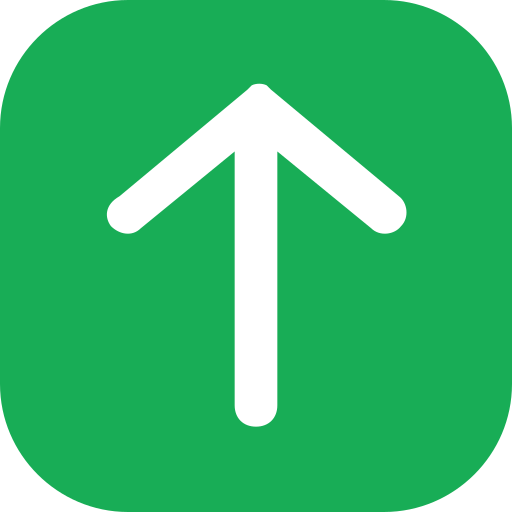
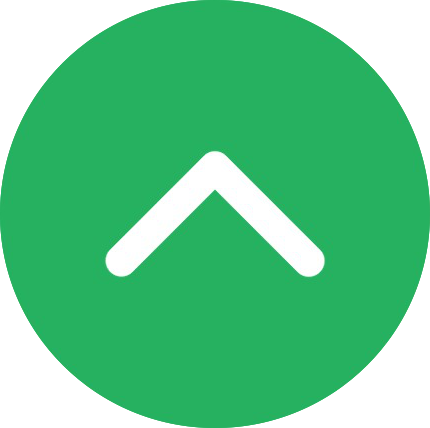
changes

diff --git a/src/screens/Auth/MainScreen.jsx b/src/screens/Auth/MainScreen.jsx
@@ -27,9 +27,12 @@ import {
 import 'react-native-get-random-values';
 import {v4 as uuid} from 'uuid';
 import jwt_decode from 'jwt-decode';
+import {ActivityIndicator} from 'react-native';
 
 const MainScreen = () => {
   const [errorMessage, setErrorMessage] = useState(null);
+  const [indicatorLoading, setIndicatorLoading] = useState(false);
+  const [serviceIsRunning, setServiceIsRunning] = useState(false);
 
   const navigation = useNavigation();
 
@@ -223,6 +226,8 @@ const MainScreen = () => {
 
   const signInWithoutCredentials = async () => {
     try {
+      setIndicatorLoading(true);
+      setServiceIsRunning(true);
       const response = await Axios.post('auth/guestLogin');
 
       const {token} = response.data.data;
@@ -238,7 +243,8 @@ const MainScreen = () => {
       for (const item of topics.data.data) {
         await Axios.patch(`/users/profile/topic/${item.id}`, {}, config);
       }
-
+      setIndicatorLoading(false);
+      setServiceIsRunning(false);
       navigation.replace('AuthHome', {
         screen: 'HomeTab',
         params: {screen: 'Home'},
@@ -247,6 +253,8 @@ const MainScreen = () => {
       console.log('====================================');
       console.log(error);
       console.log('====================================');
+      setIndicatorLoading(false);
+      setServiceIsRunning(false);
     }
   };
 
@@ -254,6 +262,7 @@ const MainScreen = () => {
     <View
       style={[
         styles.bottomContainer,
+
         {
           backgroundColor: darkMode
             ? global.backgroundColorDark
@@ -289,6 +298,11 @@ const MainScreen = () => {
           ]}
         />
       </View>
+
+      {indicatorLoading && (
+        <ActivityIndicator size="large" color={darkMode ? 'white' : 'black'} />
+      )}
+
       <View
         style={[
           styles.bottom,
@@ -342,6 +356,7 @@ const MainScreen = () => {
           </TouchableOpacity>
 
           <TouchableOpacity
+            disabled={serviceIsRunning}
             style={[styles.button, {height: 50}]}
             onPress={() => signInWithoutCredentials()}>
             <Image
@@ -363,6 +378,12 @@ export default MainScreen;
 const styles = StyleSheet.create({
   midText: {
     // marginRight: '30%',
+  },
+  indicatorStyle: {
+    color: global.brandColor,
+  },
+  spinnerTextStyle: {
+    color: '#FFF',
   },
   signupIcon: {
     width: 25,

diff --git a/App.jsx b/App.jsx
@@ -118,12 +118,33 @@ export default function App() {
     }
   };
 
+  function compareVersions(version1, version2) {
+    const v1Components = version1.split('.').map(Number);
+    const v2Components = version2.split('.').map(Number);
+
+    const maxLength = Math.max(v1Components.length, v2Components.length);
+
+    for (let i = 0; i < maxLength; i++) {
+      const v1Component = i < v1Components.length ? v1Components[i] : 0;
+      const v2Component = i < v2Components.length ? v2Components[i] : 0;
+
+      if (v1Component > v2Component) {
+        return 1; // version1 is greater
+      } else if (v1Component < v2Component) {
+        return -1; // version2 is greater
+      }
+    }
+
+    return 0; // versions are equal
+  }
+
   return (
     <>
       {updatedVersion &&
-      DeviceInfo.getVersion() !== updatedVersion &&
-      DeviceInfo.getVersion() < updatedVersion
-        ? Alert.alert('', `New version ${updatedVersion} available!`, [
+      // DeviceInfo.getVersion() !== updatedVersion &&
+      // DeviceInfo.getVersion() < updatedVersion
+      compareVersions(updatedVersion, DeviceInfo.getVersion()) === 1
+        ? Alert.alert('', `New version available!`, [
             {
               text: 'Update Now',
               onPress: () => openGoogleORAppStore(),

diff --git a/ios/NavBar.jsx b/ios/NavBar.jsx
@@ -1,0 +1,35 @@
+import Image from "next/image";
+import Link from "next/link";
+import React from "react";
+
+function NavBar() {
+  return (
+    <nav className="tw-flex tw-px-20 tw-flex-row tw-bg-white tw-justify-between tw-pt-5 tw-sticky tw-top-0 tw-z-50 tw-pb-5">
+      <Link href="/home">
+        <Image
+          className="tw-object-contain tw-cursor-pointer "
+          src={"/logo.png"}
+          width={230}
+          height={230}
+          alt="logo.png"
+        />
+      </Link>
+
+      <ul className="tw-flex tw-flex-row tw-text-lg tw-font-medium tw-items-center ">
+        <li className="tw-mx-7 tw-cursor-pointer ">
+          <Link className=" tw-no-underline tw-text-black" href="/about">
+            About us
+          </Link>
+        </li>
+        <li className="tw-mx-7 tw-cursor-pointer">Sign Up</li>
+        <li className="tw-mx-7 tw-bg-primary hover:tw-bg-buttonHover tw-text-white tw-font-normal tw-cursor-pointer tw-px-10 tw-py-3 tw-rounded-lg">
+          <Link className=" tw-no-underline tw-text-white" href="/login">
+            Sign In
+          </Link>
+        </li>
+      </ul>
+    </nav>
+  );
+}
+
+export default NavBar;

diff --git a/src/screens/ProfileSettings.jsx b/src/screens/ProfileSettings.jsx
@@ -377,8 +377,8 @@ const ProfileSettings = props => {
                 <TouchableOpacity
                   onPress={() =>
                     Alert.alert(
-                      'Deactivate Account',
-                      'Are you sure you want to deactivate your account? When you deactivate your account, your personal data will be promptly and completely removed from our resources.Your privacy is our priority.',
+                      'Delete Account',
+                      'Are you sure you want to delete your account? When you delete your account, your personal data will be promptly and completely removed from our resources.Your privacy is our priority.',
                       [
                         {
                           text: 'Cancel',
@@ -402,7 +402,7 @@ const ProfileSettings = props => {
                       fontSize: 16,
                       textAlign: 'center',
                     }}>
-                    Deactivate Account
+                    Delete Account
                   </Text>
                 </TouchableOpacity>
               </>

diff --git a/src/screens/BlogScreen.jsx b/src/screens/BlogScreen.jsx
@@ -401,6 +401,7 @@ const BlogScreen = ({route}) => {
                     color: 'white',
                     alignSelf: 'center',
                     fontWeight: '500',
+                    fontSize: 12,
                   }}>
                   Add Bookmark
                 </Text>
@@ -509,7 +510,7 @@ const BlogScreen = ({route}) => {
                       <Text
                         style={[
                           styles.topic,
-                          {flex: DeviceInfo.isTablet() ? 0.3 : 0.5},
+                          {flex: DeviceInfo.isTablet() ? 0.3 : 0.6},
                         ]}>
                         {data.topics[0].name}
                       </Text>

diff --git a/src/screens/CuratedScreen.jsx b/src/screens/CuratedScreen.jsx
@@ -276,8 +276,10 @@ const HomeScreen = ({navigation}) => {
             <Image
               source={require('../assets/up.png')}
               style={{
-                width: 45,
-                height: 45,
+                width: 48,
+                height: 48,
+                resizeMode: 'contain',
+                borderRadius: 50,
               }}
             />
           </View>

diff --git a/src/screens/Category.jsx b/src/screens/Category.jsx
@@ -205,7 +205,7 @@ const Category = () => {
             // shadowOpacity: 0.1,
             // shadowRadius: 1,
           }}>
-          <View style={{}}>
+          <View>
             <Image
               source={require('../assets/up.png')}
               style={{
